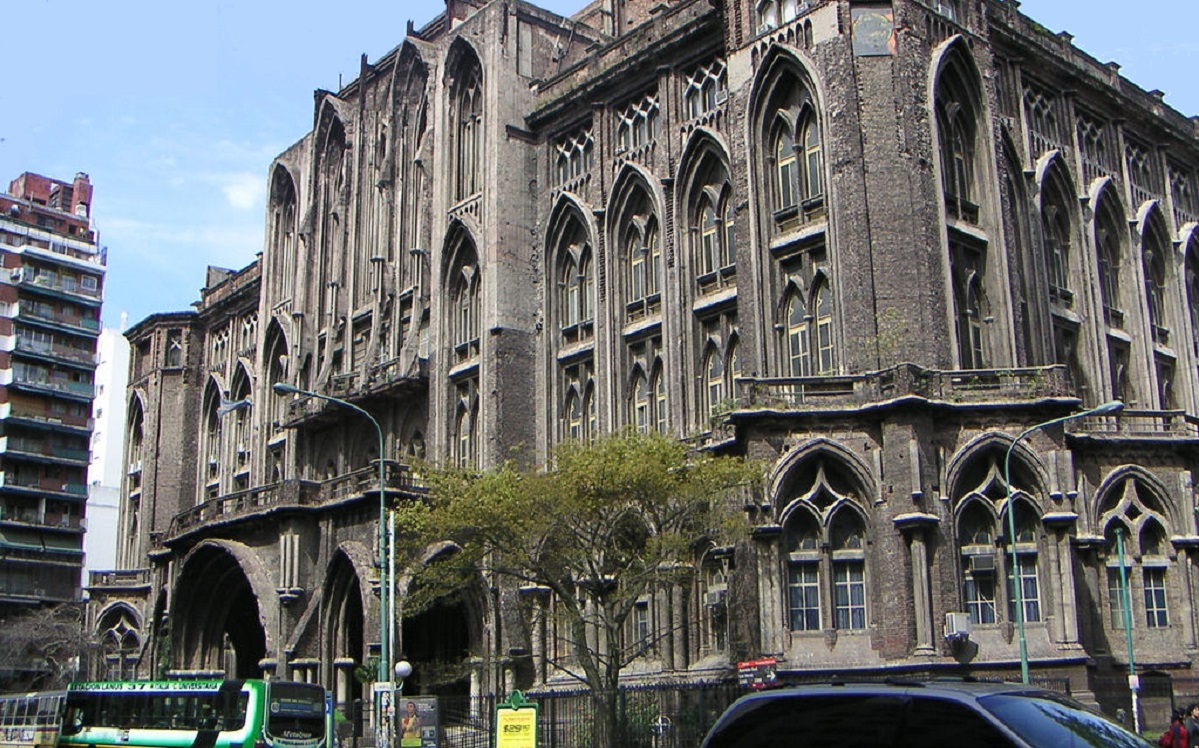
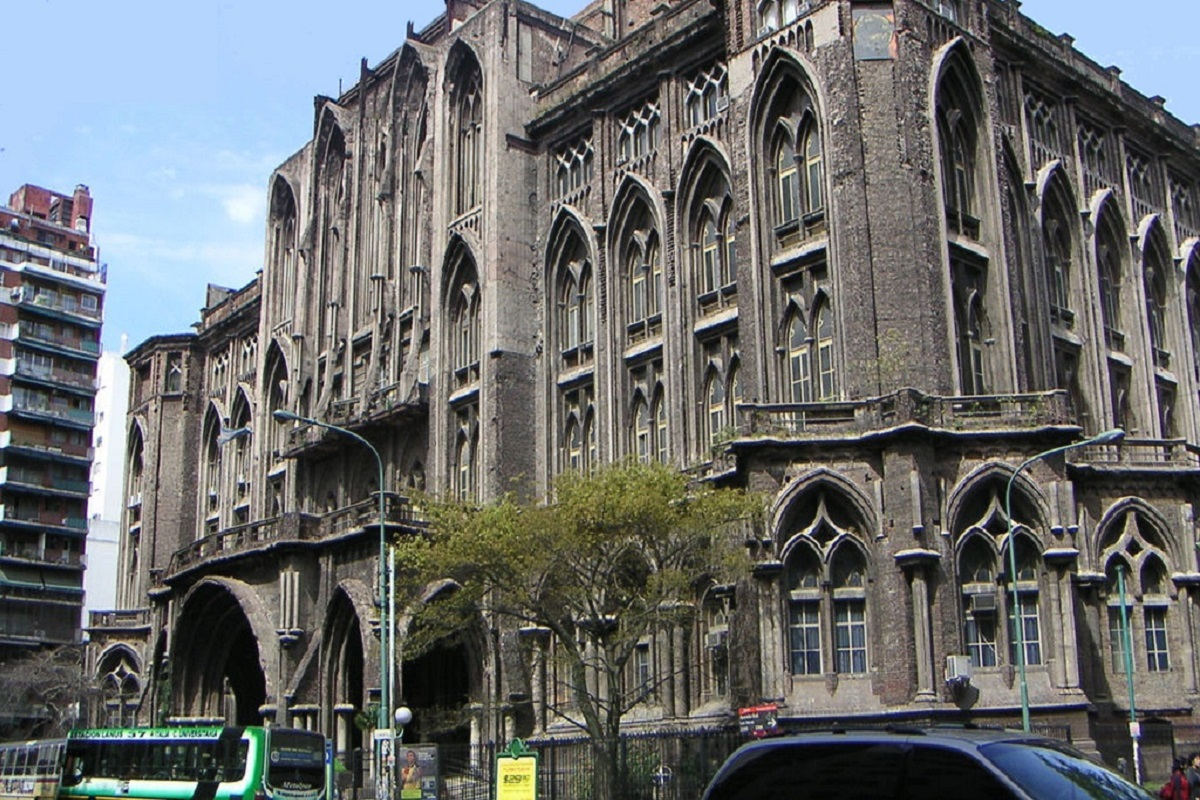
Corrige aspecto imagenes. Mejora el uso de constantes

diff --git a/client/src/consts.js b/client/src/consts.js
@@ -1,28 +1,42 @@
-export default {      
+const ROLSD = "-- Seleccione Rol --";
+const ROLDC = "Rol Docente";
+const ROLAL = "Rol Alumno";
+const ROLND = "Rol No docente";
+const ROLMDD = "Rol Miembro de Departamento";
+const ROLADMIN = "Rol Administrador";
+
+export default { 
+    ROLSD: ROLSD,    
+    ROLDC: ROLDC,    
+    ROLAL: ROLAL,    
+    ROLND: ROLND,    
+    ROLMDD: ROLMDD,    
+    ROLADMIN: ROLADMIN,
+        
     ROLES : [
     { 
-        value: 0, 
-        text: '-- Seleccione Rol --' 
+        value: ROLSD, 
+        text: ROLSD 
     },
     {
-        value: 1, 
-        text: "Rol Docente"
+        value: ROLDC, 
+        text: ROLDC
     },
     {
-        value: 2, 
-        text: "Rol Alumno"
+        value: ROLAL, 
+        text: ROLAL
     },
     {
-        value: 3, 
-        text: "Rol No docente"
+        value: ROLND, 
+        text: ROLND
     },
     {
-        value: 4, 
-        text: "Rol Miembro de Departamento"
+        value: ROLMDD, 
+        text: ROLMDD
     },
     {
-        value: 5, 
-        text: "Rol Administrador"
+        value: ROLADMIN, 
+        text: ROLADMIN
     }]
   }
   

diff --git a/client/src/components/Panel.vue b/client/src/components/Panel.vue
@@ -36,13 +36,13 @@
       </div>
 
       <div class="col-5">
-        <h3 v-if="$store.state.seleccionRol">{{consts.ROLES[$store.state.seleccionRol].text}}</h3>
+        <h3 v-if="$store.state.seleccionRol != consts.ROLSD">{{$store.state.seleccionRol}}</h3>
 
-        <div v-if="$store.state.seleccionRol == 1">
+        <div v-if="$store.state.seleccionRol == consts.ROLDC">
           <b-form-select v-model="seleccionAccion" :options="actionsDoc" class="m-2 roleselecion"/>
         </div>
 
-        <div v-if="$store.state.seleccionRol == 2">
+        <div v-if="$store.state.seleccionRol == consts.ROLAL">
           <b-form-select v-model="seleccionAccion" :options="actionsAlum" class="m-2 roleselecion"/>
         </div>
 
@@ -109,4 +109,5 @@ export default {
 
 <!-- Add "scoped" attribute to limit CSS to this component only -->
 <style scoped>
+
 </style>

diff --git a/client/src/store/store.js b/client/src/store/store.js
@@ -1,10 +1,11 @@
 import Vue from "vue";
 import Vuex from "vuex";
+import aux from '../consts'
 
 Vue.use(Vuex);
 
 export let store = new Vuex.Store({
   state: {
-    seleccionRol: 0
+    seleccionRol: aux.ROLSD
   }
 });
